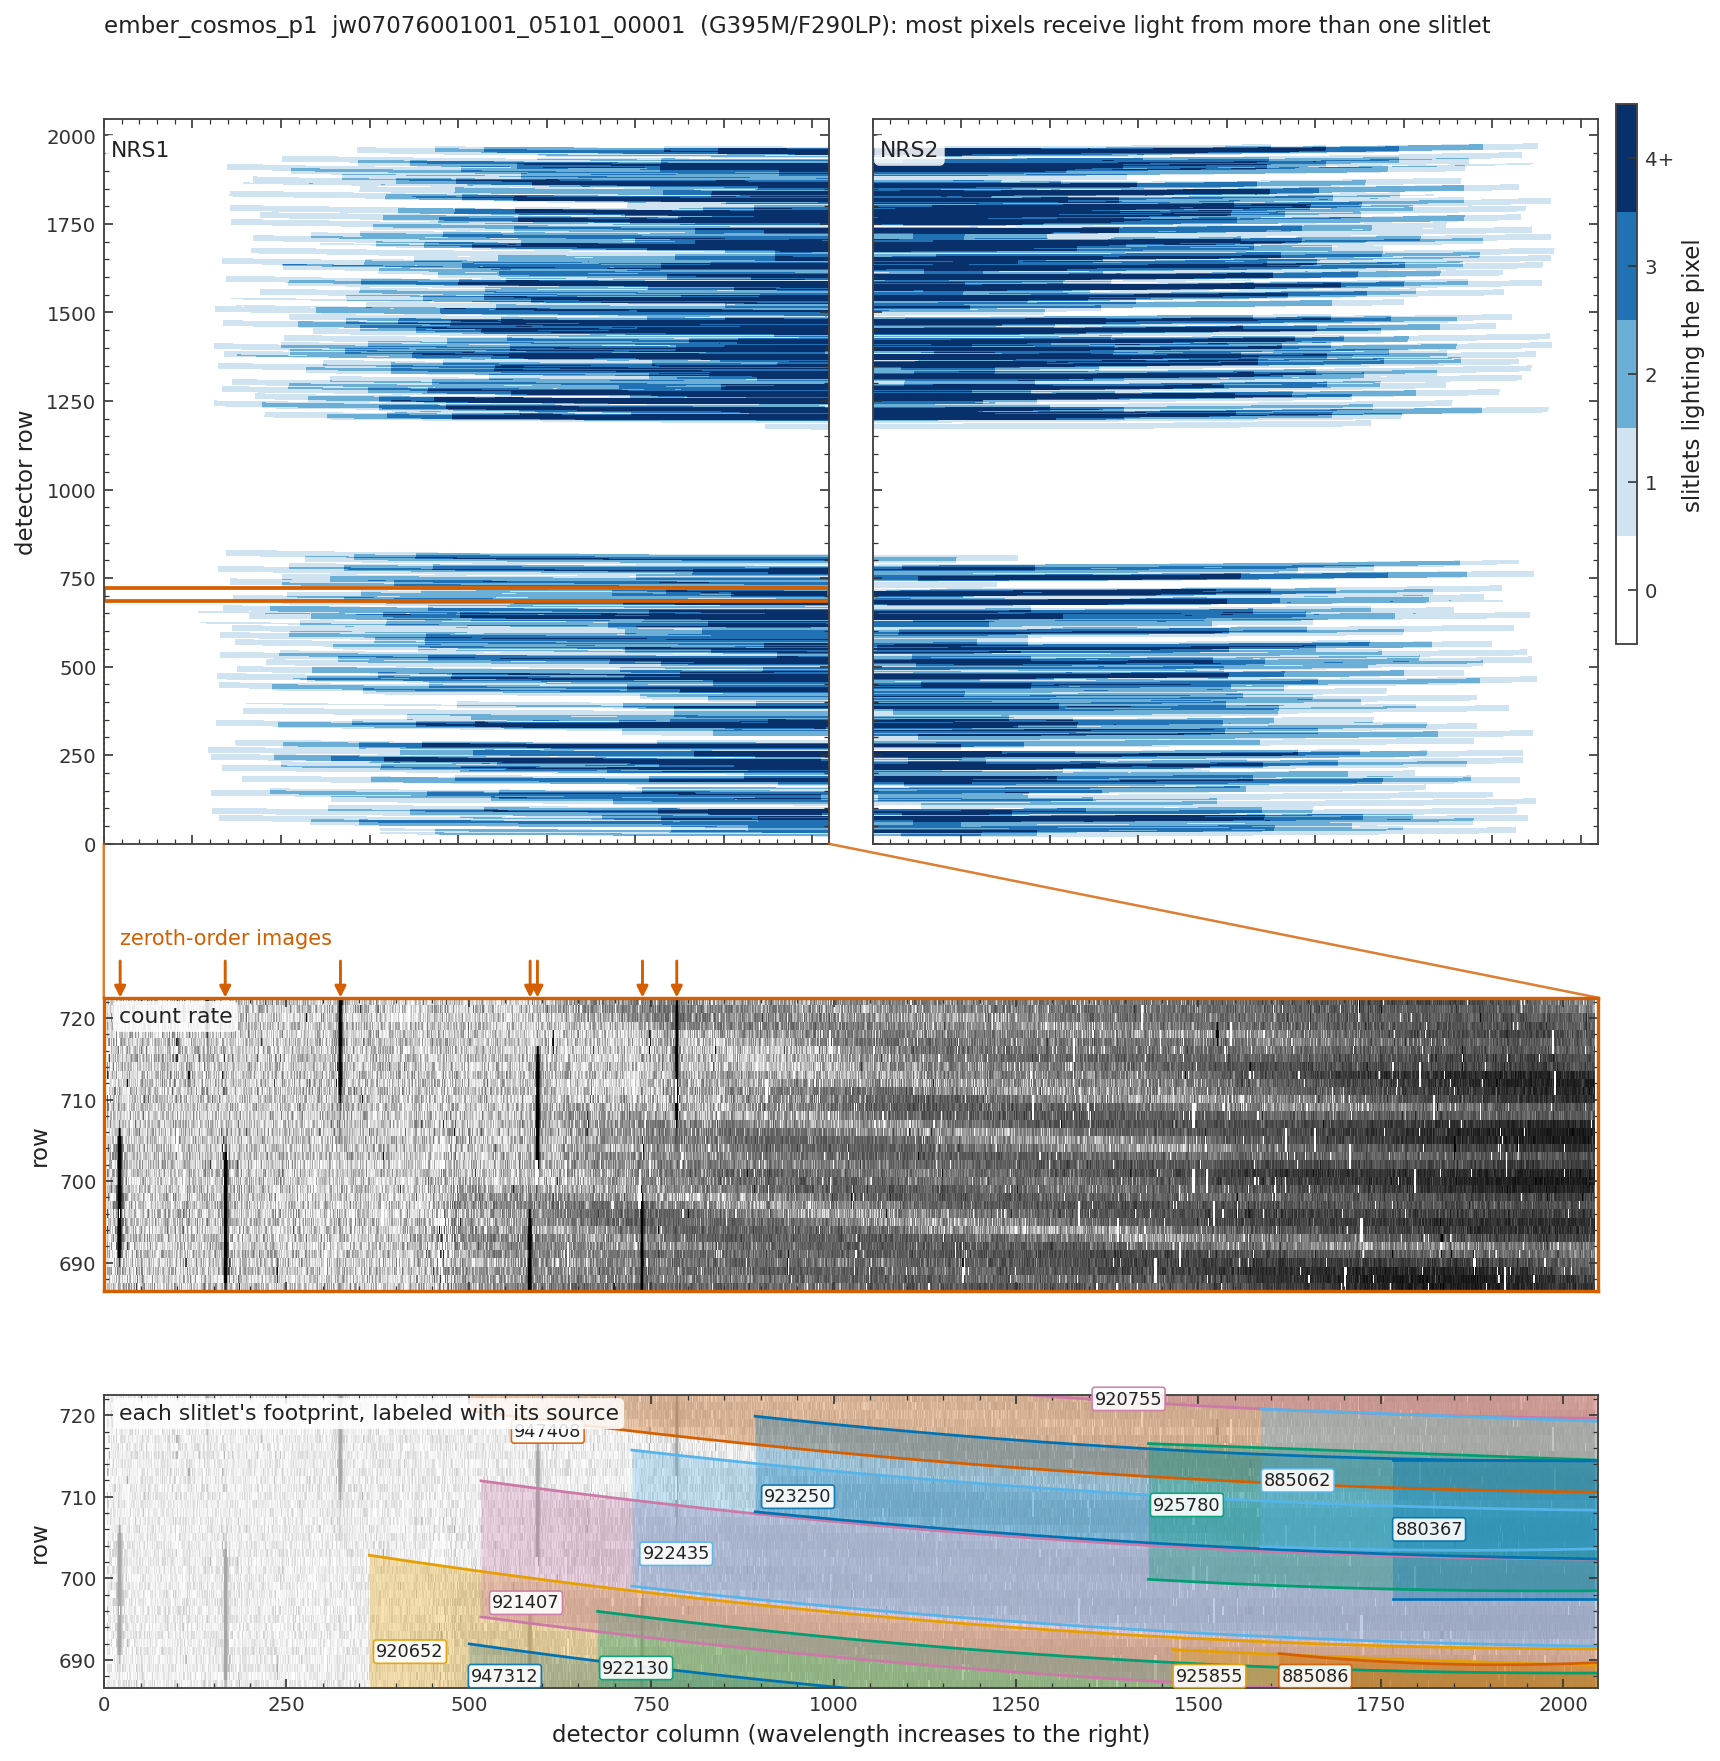
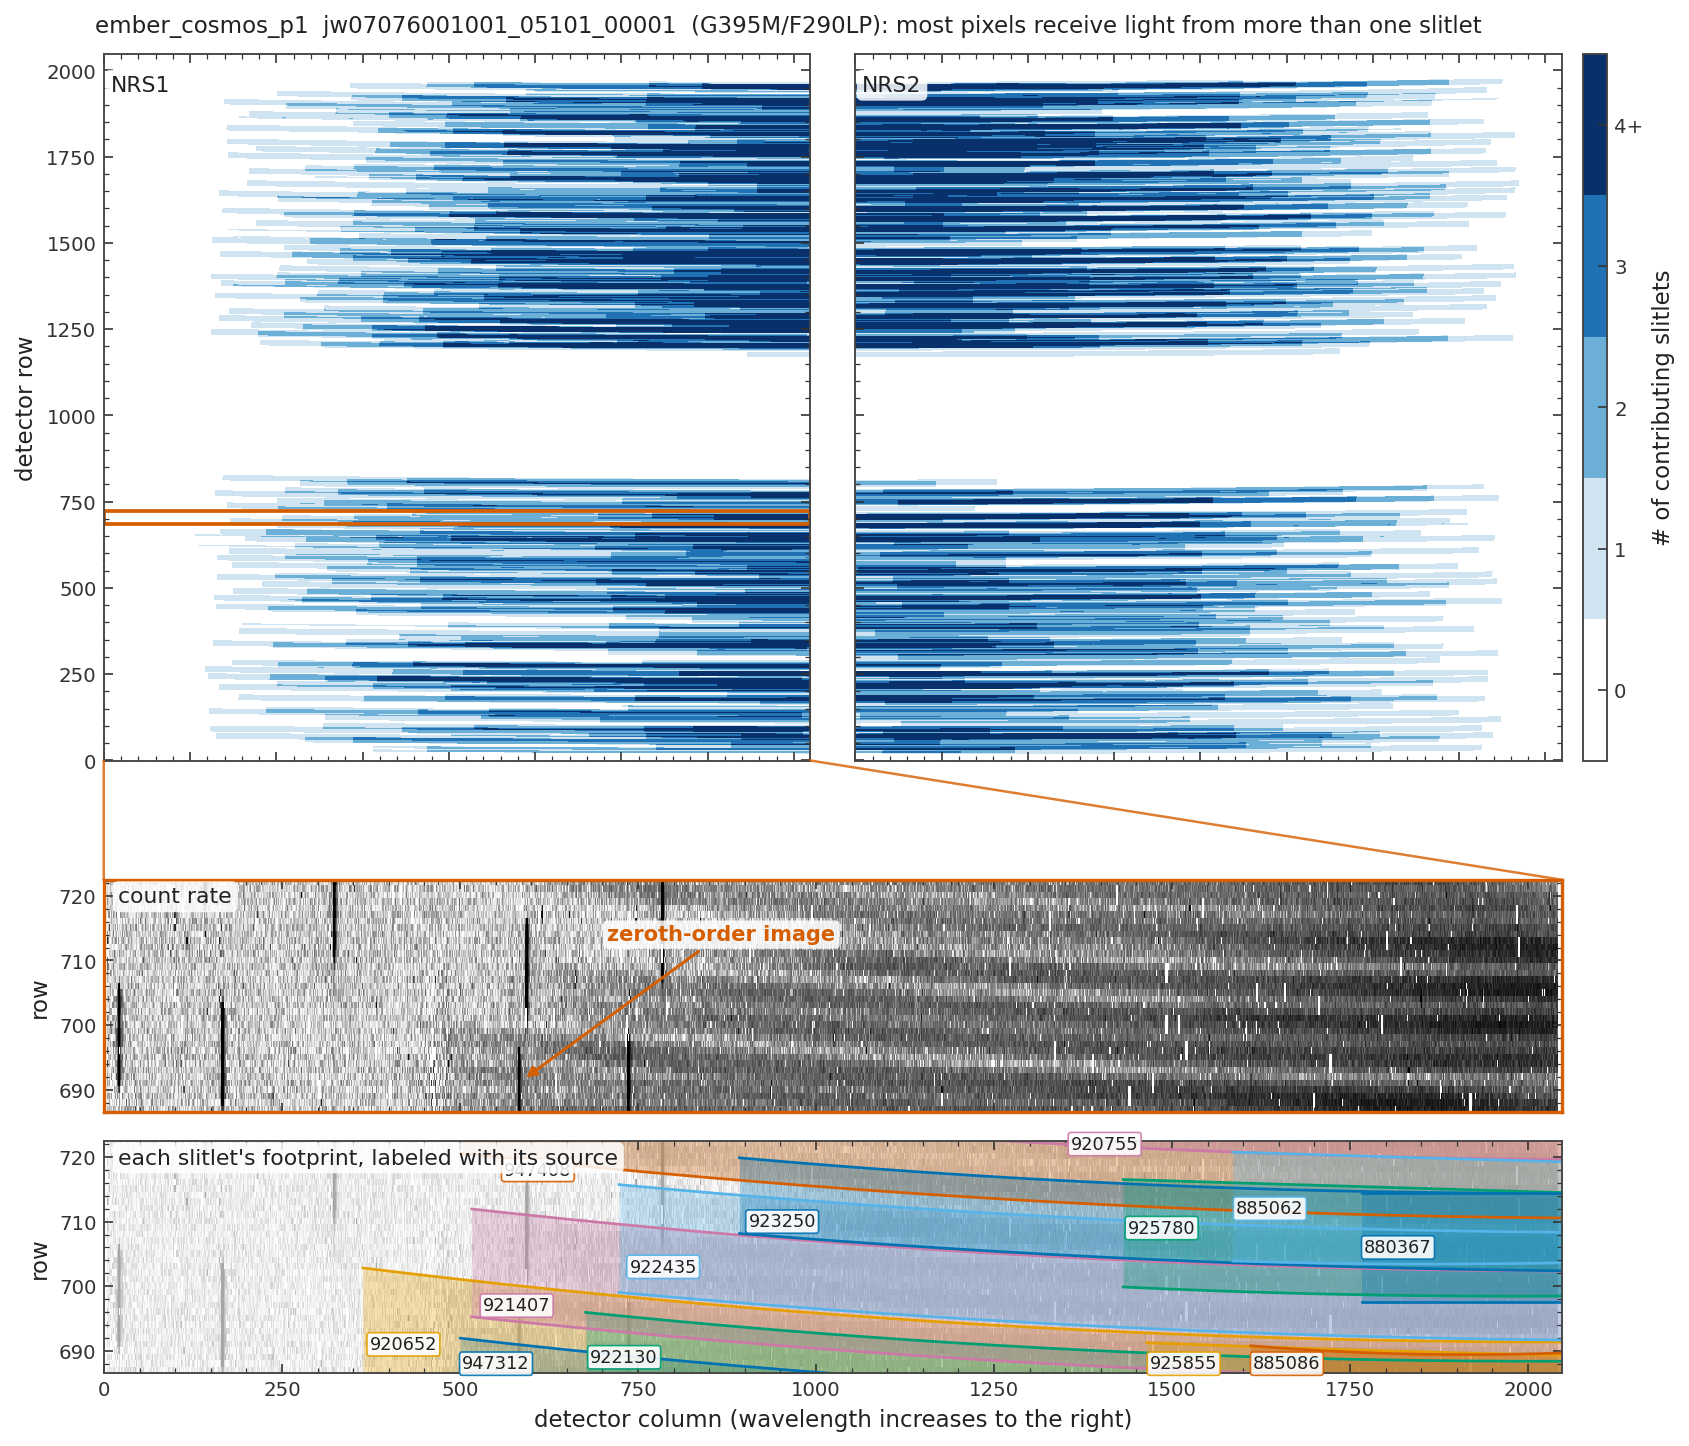
docs: overlap figure layout tightened, one zeroth-order image labeled; bar shadow figure smaller with plain title and legend inside
Claude-Session: https://claude.ai/code/session_019a5zAo87B6jUK2ZMiF6xjZ

diff --git a/scripts/docs/nirspec/fig_overlap.py b/scripts/docs/nirspec/fig_overlap.py
@@ -21,7 +21,8 @@ p.add_argument('--exposure', required=True, help="the NRS1 exposure, e.g. 'jw070
 p.add_argument('--rows', type=int, nargs=2, metavar=('Y0', 'NY'), default=None,
                help='band of NRS1 detector rows (0-based first row, number of rows); default: chosen automatically')
 p.add_argument('--strip', type=int, default=36, help='rows in the automatic band')
-p.add_argument('--zeroth', type=int, default=8, help='zeroth-order images to mark at most (0: none)')
+p.add_argument('--zeroth', type=int, default=8,
+               help='zeroth-order images looked for in the band; one is labeled (0: none)')
 args = p.parse_args()
 root = C.setup_root(args.root)
 
@@ -52,14 +53,21 @@ else:
 sl = (slice(y0, y0 + ny), slice(0, NX))
 ext = [-0.5, NX - 0.5, y0 - 0.5, y0 + ny - 0.5]
 
-fig = plt.figure(figsize=(12, 12))
-gs = fig.add_gridspec(3, 2, height_ratios=[2.25, 0.8, 0.8], hspace=0.22, wspace=0.06,
-                      left=0.07, right=0.9, top=0.95, bottom=0.05)
+# axes placed by hand so the square detector panels fill their space (figure fractions)
+FW, FH = 12.0, 10.6
+fig = plt.figure(figsize=(FW, FH))
+L, R, GAP = 0.075, 0.885, 0.025
+w = (R - L - GAP) / 2                                  # width of one detector panel
+h_top = w * FW / FH                                    # square
+y_top = 0.955 - h_top
+h_band = 1.55 / FH
+y_r = y_top - 0.075 - h_band                           # room for the zoom lines
+y_f = y_r - 0.018 - h_band
 cmap = ListedColormap(['#ffffff', '#cfe3f1', '#6baed6', '#2171b5', '#08306b'])
 cnorm = BoundaryNorm(np.arange(-0.5, 5), 5)
 top = []
 for k, (cnt, det) in enumerate([(count1, 'NRS1'), (count2, 'NRS2')]):
-    ax = fig.add_subplot(gs[0, k])
+    ax = fig.add_axes([L + k * (w + GAP), y_top, w, h_top])
     im = ax.imshow(np.minimum(cnt, 4), cmap=cmap, norm=cnorm)
     C.label_panel(ax, det)
     ax.set_xticklabels([])
@@ -71,16 +79,16 @@ for k, (cnt, det) in enumerate([(count1, 'NRS1'), (count2, 'NRS2')]):
     else:
         ax.set_yticklabels([])
     top.append(ax)
-cax = fig.add_axes([0.91, 0.63, 0.012, 0.3])
+cax = fig.add_axes([R + 0.012, y_top, 0.013, h_top])
 cb = fig.colorbar(im, cax=cax, ticks=range(5))
 cb.ax.set_yticklabels(['0', '1', '2', '3', '4+'])
-cb.set_label('slitlets lighting the pixel')
+cb.set_label('# of contributing slitlets')
 cb.ax.minorticks_off()
 
-ax_r = fig.add_subplot(gs[1, :])
+ax_r = fig.add_axes([L, y_r, R - L, h_band])
 ax_r.imshow(rate[sl], extent=ext, cmap='Greys', norm=C.asinh_norm(rate[sl]), aspect='auto')
 ax_r.set_ylabel('row')
-ax_f = fig.add_subplot(gs[2, :], sharex=ax_r, sharey=ax_r)
+ax_f = fig.add_axes([L, y_f, R - L, h_band], sharex=ax_r, sharey=ax_r)
 plt.setp(ax_r.get_xticklabels(), visible=False)
 ax_f.imshow(rate[sl], extent=ext, cmap='Greys', norm=C.asinh_norm(rate[sl]), aspect='auto', alpha=0.35)
 for xa in (-0.5, NX - 0.5):                       # NRS1's bottom edge under the box to the band below
@@ -106,12 +114,16 @@ if args.zeroth > 0:
             peaks.append(int(c))
         if len(peaks) == args.zeroth:
             break
-    for c in peaks:
-        ax_r.annotate('', xy=(c, y0 + ny - 1), xytext=(c, y0 + ny + 4.5), annotation_clip=False,
+    if peaks:                                      # label one, inside the panel
+        c = sorted(peaks)[len(peaks) // 2]
+        rows_hi = np.flatnonzero(hp[:, c] > 5 * noise)
+        yc = y0 + float(np.median(rows_hi))
+        tx = c + 0.06 * NX
+        ty = y0 + 0.25 * ny if yc > y0 + 0.5 * ny else y0 + 0.75 * ny
+        ax_r.annotate('zeroth-order image', xy=(c + 4, yc), xytext=(tx, ty), color=C.PALETTE[5], fontsize=10,
+                      fontweight='bold', va='center', ha='left',
+                      bbox=dict(boxstyle='round,pad=0.2', fc='white', ec='none', alpha=0.85),
                       arrowprops=dict(arrowstyle='-|>', color=C.PALETTE[5], lw=1.4))
-    if peaks:
-        ax_r.text(min(peaks), y0 + ny + 5.5, 'zeroth-order images', color=C.PALETTE[5], fontsize=10,
-                  ha='left', va='bottom', clip_on=False)
 
 in_band = (iy >= y0) & (iy < y0 + ny)
 ids, n = np.unique(idx[in_band], return_counts=True)

diff --git a/scripts/docs/nirspec/fig_bar_shadow.py b/scripts/docs/nirspec/fig_bar_shadow.py
@@ -71,9 +71,7 @@ def slitlet_profile(t, wl, y, crds=False):
 
 
 y = np.linspace(-2, 2, 2001)
-fig, ax = plt.subplots(figsize=(10.5, 4.8), constrained_layout=True)
-for c in (-1, 0, 1):                                # the three open shutters
-    ax.axvspan(c - 0.5, c + 0.5, color='#eeeeee', lw=0, zorder=0)
+fig, ax = plt.subplots(figsize=(7.5, 4.2), constrained_layout=True)
 for k, wl in enumerate(waves):
     color = C.PALETTE[k]
     ax.step(y, slitlet_profile(tm, wl, y), where='mid', color=color, lw=1.8, label=f'{wl:g} µm, measured')
@@ -81,10 +79,11 @@ for k, wl in enumerate(waves):
             label=f'{wl:g} µm, CRDS reference')
 ax.axhline(1.0, color='#bbbbbb', lw=0.8, zorder=0)
 ax.set_xlim(-2, 2)
-ax.set_xlabel('position across a three-shutter slitlet (shutter widths; shaded: the open shutters)')
+ax.set_ylim(-0.03, 1.32)
+ax.set_xlabel('position across the slitlet (shutter widths from its center)')
 ax.set_ylabel('transmission (1 = open shutter center)')
-ax.set_title('How the MSA dims uniform light across a slitlet')
-ax.legend(loc='center left', bbox_to_anchor=(1.01, 0.5), fontsize=9)
+ax.set_title('Bar shadow for a three-shutter slitlet')
+ax.legend(loc='upper center', ncol=3, fontsize=8.5, columnspacing=1.2, handlelength=2.2)
 fig.suptitle(f'{args.disperser.upper()}: measured profile ({os.path.basename(measured)}) and '
              f'{os.path.basename(crds)}', x=0.01, ha='left', fontsize=10, color=C.MUTED)
 C.save(fig, args, f'bar_shadow_{args.disperser}.png')

diff --git a/scripts/docs/nirspec/fig_master_background.py b/scripts/docs/nirspec/fig_master_background.py
@@ -9,6 +9,11 @@ shutters that disagree (a faint source, a stuck or partly open shutter) are left
 
     python scripts/docs/nirspec/fig_master_background.py --root <root> --obs ember_cosmos_p1 \
         --exposure jw07076001001_03101_00001_nrs1 [--region X0 Y0 NX NY]
+
+Redraw this figure if the regions past the calibrated wavelength range get a better
+calibration: there the master background is in count rate without a flat field, which
+leaves a few percent at the ends of the traces. Redraw it, and fig_failed_open.py, once the
+failed-open shutters' footprints include their margins.
 """
 import common as C
 
